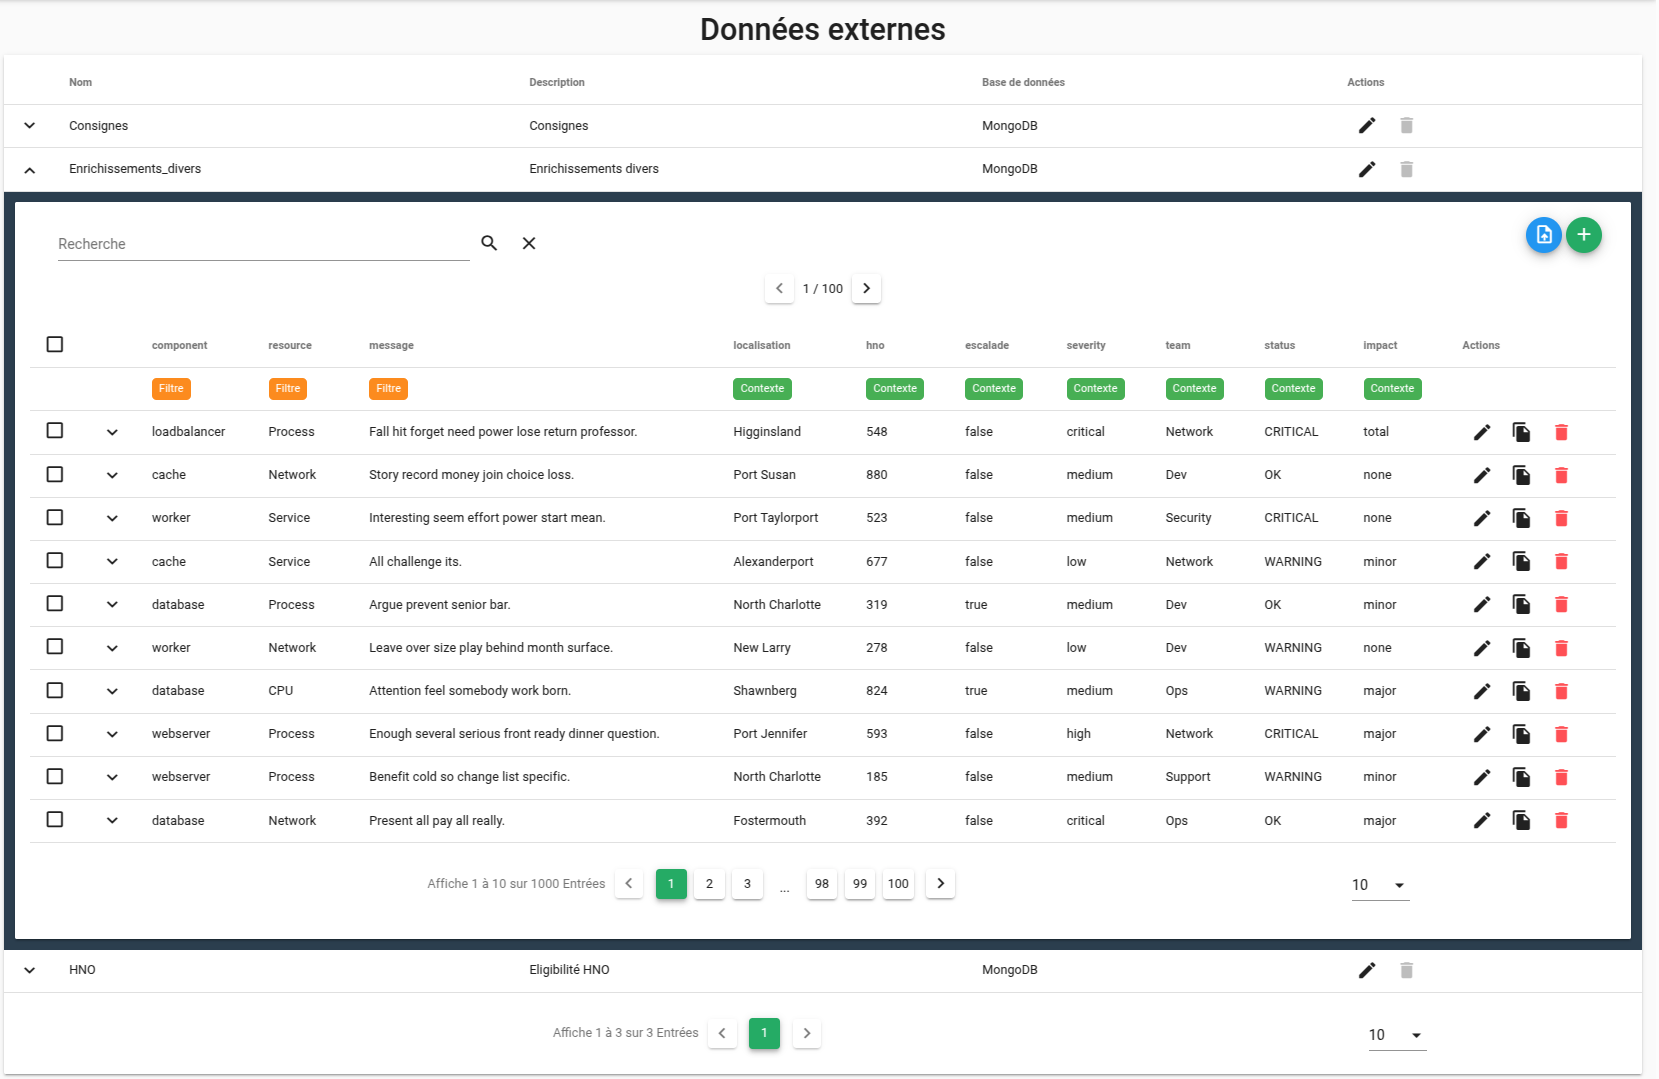
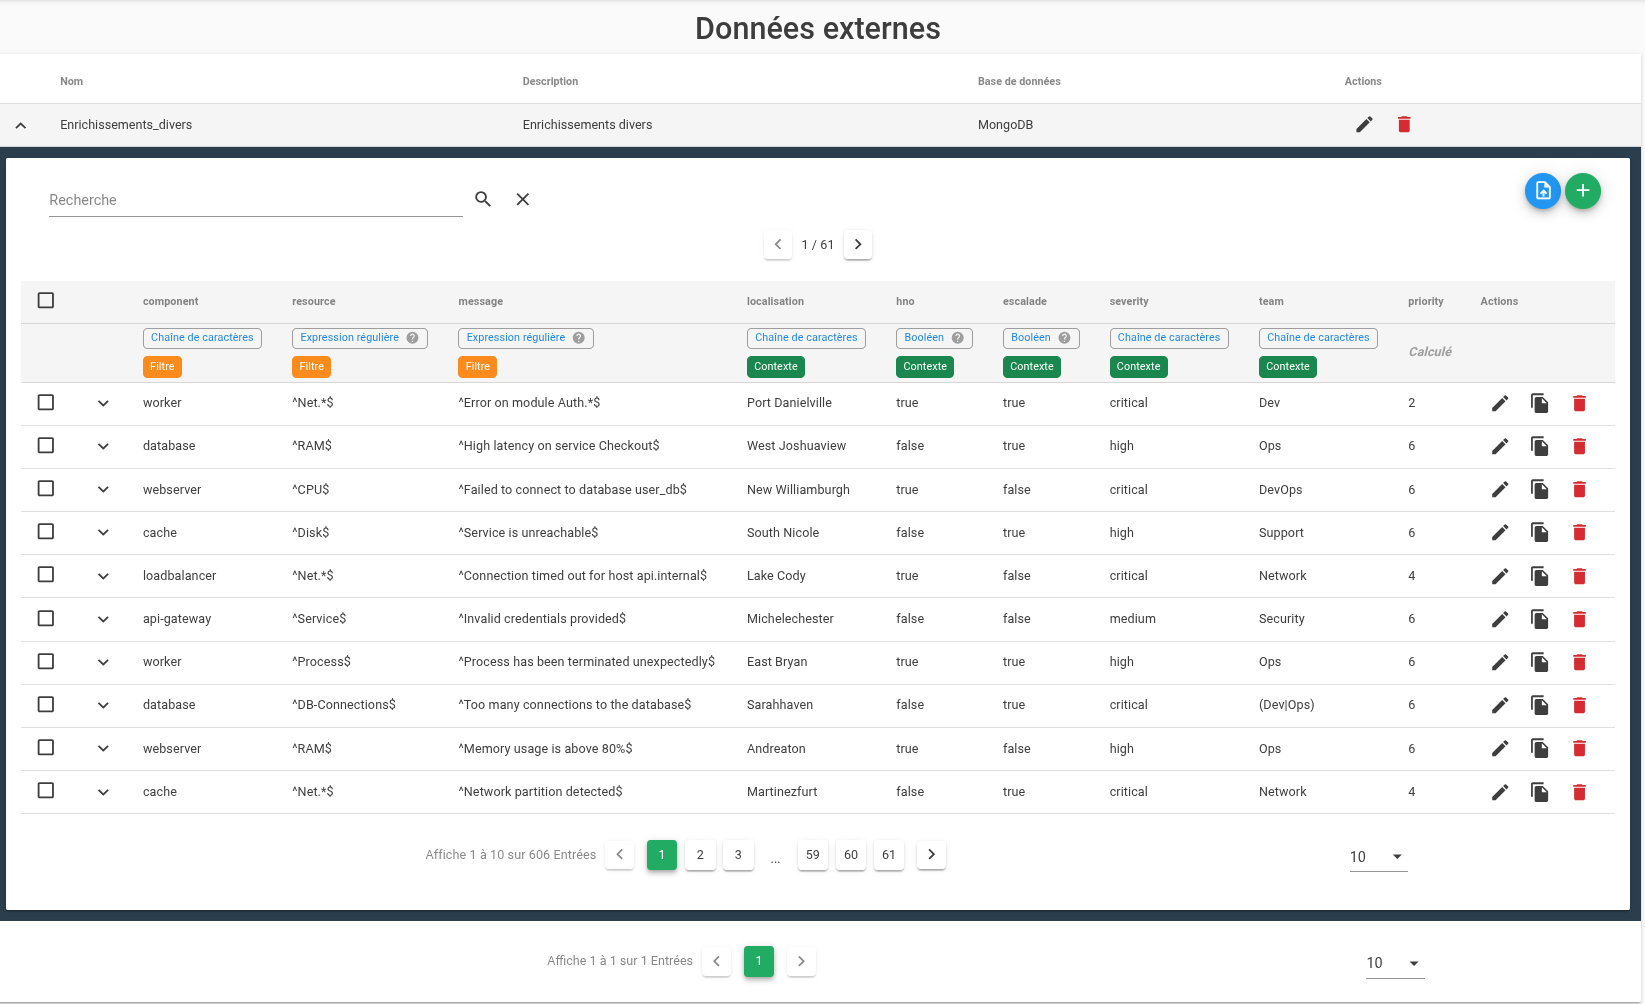
Merge branch 'doc/external_data' into 'develop'
ajout des score + prio

See merge request canopsis/canopsis-pro!5232

(cherry picked from commit 7a77d24668a92311eab0c0415a15c497aa30dfbc)

b9ff5dd3 ajout des score + prio

diff --git a/community/sources/docs/fr/guide-utilisation/menu-exploitation/donnees-externes.md b/community/sources/docs/fr/guide-utilisation/menu-exploitation/donnees-externes.md
@@ -22,6 +22,28 @@ Lorsque vous ajoutez une source, vous pouvez saisir les éléments suivants :
 | **Nom** | Nom de la source de données externes |
 | **Description** | Description de la source de données externes |
 
+!!! info "Information"
+    Les tables PostgreSQL sont ajoutées dans le schéma `externaldata`.  
+    Les commandes suivantes permettent de lister les schémas et vous positionner dans le schéma adéquat :  
+    ```sh
+    canopsis=> \dn
+                   List of schemas
+               Name           |       Owner       
+    --------------------------+-------------------
+     _timescaledb_cache       | postgres
+     _timescaledb_catalog     | postgres
+     _timescaledb_config      | postgres
+     _timescaledb_debug       | postgres
+     _timescaledb_functions   | postgres
+     _timescaledb_internal    | postgres
+     externaldata             | cpspostgres
+     public                   | pg_database_owner
+     timescaledb_experimental | postgres
+     timescaledb_information  | postgres
+    (10 rows)
+    
+    canopsis=> set schema 'externaldata';
+    ```
 
 ### Ajouter une source de données externes depuis le fichier de configuration `toml`
 
@@ -45,6 +67,100 @@ Lorsque le fichier CSV a été sélectionné, vous aurez accès à une pré visu
 
 ![données externes import](./img/donnees_externes_import.png)
 
+Au moment de l'import, l'interface vous propose de "typer" les colonnes du fichier csv.  
+Les types pris en charge sont les suivants :
+
+| Type                  | Description |
+| --------------------- | ----------- |
+| Chaîne de caractères  | Valeur texte libre stockée telle quelle. A utiliser pour des champs "simples" (ex. component, team). Si vous avez besoin de motifs, utilisez plutôt Expression régulière |
+| Booléen               | Valeur logique true / false (insensible à la casse), prend aussi en charge : yes/no, y/n, oui/non, 1/0. Souvent utilisée pour hno, escalade |
+| Nombre                | Valeur numérique (entier ou décimal). Le séparateur de milliers peut être configuré (ex. 1500, 1 500, 12.34) |
+| Tableau               | Permet de stocker plusieurs valeurs dans un même champ. Deux modes sont disponibles lors de l'import : <br>1. JSON ([v1, v2, v3]): la liste est parsée telle quelle<br>2. Analyse par séparateur : les valeurs sont extraites d'une chaîne délimitée (v1,v2,v3, v1;v2;v3, etc.) selon le séparateur choisi.<br>Exemple : "Dev,Ops,QA" devient ["Dev", "Ops", "QA"]"
+| Date/heure            | Représente une date et une heure normalisées. Les valeurs doivent respecter l'un des formats suivants :<br><ul><li>1990-12-31T00:00:00.000Z</li><li>1990-12-31T00:00:00:00:00</li><li>1990-12-31T00:00:00Z</li><li>1990-12-31T00:00:00+00:00</li></ul> |
+| Horodatage            | Timestamp (généralement epoch en secondes) |
+| Expression régulière  | Expression régulière normalisée. Une colonne calculée "priority" est ajoutée automatiquement si au moins une colonne est de type "Expression régulière" |
+
+### Expressions régulières et calcul automatique de la priorité
+
+!!! info "Principe général"
+    Lorsqu'une ou plusieurs colonnes sont typées Expression régulière (regexp), Canopsis :  
+    1. Interprète **chaque valeur comme une expression régulière**, qu'elle contienne ou non des symboles spéciaux.  
+    2. **Normalise** automatiquement les motifs (^ ajouté au début, $ à la fin, sauf pour .*).  
+    3. **Évalue leur "spécificité"** pour calculer une **priorité automatique** (priority) par ligne.  
+    4. Cette priorité peut ensuite être utilisée dans les [règles d'enrichissement](../filtres-evenements/#source-externe) (sort_by: priority, sort: desc) pour faire ressortir **l'enregistrement le plus précis**.
+
+
+#### Règle de calcul de la priorité
+
+Chaque valeur de colonne regexp reçoit un score selon son niveau de précision :
+
+| Type de motif                               | Exemple            | Score |
+| ------------------------------------------- | ------------------ | :---: |
+| Vide, .* ou .+                              | .*                 |   0   |
+| Motif "général" (contient * au milieu)      | .*SUBSTR.*         |   1   |
+| Un seul ancrage (^ ou $)                    | ^SUBSTR ou SUBSTR$ |   2   |
+| Motif exact (commence par ^ et finit par $) | ^SUBSTR$           |   3   |
+
+!!! tip "Conclusion"
+    La priorité d’une ligne correspond à la somme des scores de toutes les colonnes regexp.
+
+
+#### Normalisation automatique des motifs
+
+Canopsis applique une normalisation avant l'évaluation :
+
+| Entrée originale | Normalisation appliquée | Interprétation                |
+| ---------------- | ----------------------- | ----------------------------- |
+| SUBSTR           | ^SUBSTR$                | correspondance exacte         |
+| SUBSTR$          | SUBSTR$                 | ancré en fin                  |
+| ^SUBSTR          | ^SUBSTR                 | ancré en début                |
+| .*SUBSTR         | ^.*SUBSTR$              | motif général                 |
+| .*SUBSTR.*       | ^.*SUBSTR.*$            | motif général (le plus large) |
+| .*               | .*                      | motif passe-partout (score 0) |
+
+Ainsi, tout texte est traité comme une expression régulière, même s’il n’en contient pas.
+
+**Gestion des caractères spéciaux**
+
+Certains caractères ont un sens particulier en regex : [ ] ( ) { } . * + ? ^ $ \ |
+
+* Si vous souhaitez les utiliser littéralement, échappez-les avec un antislash.  
+  Exemple :
+  
+    * Valeur littérale souhaitée : `[ABC]`
+    * A saisir dans le CSV :  `\[ABC\]`
+
+* Si la valeur contient une erreur de syntaxe (regex invalide, parenthèse non fermée, \ manquant...), elle est traitée comme texte exact, sans avertissement dans les logs.
+
+#### Responsabilité du traitement
+
+| Étape                                       | Responsable  | Détails                                                              |
+| ------------------------------------------- | ------------ | -------------------------------------------------------------------- |
+| Ajout automatique de ^ et $                 | Canopsis API | Fait automatiquement côté serveur.                                   |
+| Calcul du score de priorité                 | Canopsis API | Automatique lors de la prévisualisation                              |
+| Échappement des caractères spéciaux ([ABC]) | Utilisateur  | Le fichier CSV doit déjà contenir les antislashs nécessaires.        |
+
+#### Exemple concret
+
+A partir de ce fichier CSV :
+
+```csv
+component,resource,message,localisation,hno,escalade,severity,team
+database,DB-Connections,Too many connections to the database,Sarahhaven,False,True,critical,(Dev|Ops)
+webserver,CPU,Failed to connect to database user_db,New Williamburgh,True,False,critical,DevOps
+cache,Disk,Service is unreachable,South Nicole,False,True,high,Support
+loadbalancer,Net.*,Connection timed out for host api.internal,Lake Cody,True,False,critical,Network
+```
+
+Le traitement effectué par Canopsis (valeurs regexp normalisées et priorités calculées) est le suivant :
+
+| component    | resource (normalisé) | message (normalisé)                          | priority | severity | team      |
+| ------------ | -------------------- | -------------------------------------------- | :------: | :------- | :-------- |
+| database     | ^DB-Connections$     | ^Too many connections to the database$       |     6    | critical | (Dev|Ops) |
+| webserver    | ^CPU$                | ^Failed to connect to database user_db$      |     6    | critical | DevOps    |
+| cache        | ^Disk$               | ^Service is unreachable$                     |     6    | high     | Support   |
+| loadbalancer | ^Net.*$              | ^Connection timed out for host api.internal$ |     4    | critical | Network   |
+
 ### Gérer les enregistrements
 
 Dès lors qu'un import de données a été réalisé, vous pouvez effectuer les opérations suivantes sur chaque enregistrement :  
@@ -53,7 +169,7 @@ Dès lors qu'un import de données a été réalisé, vous pouvez effectuer les 
 * Supprimer
 * Dupliquer
 
-Vous pouvez également importer de nouveaux enregistrements et/ou insérer un enregistrement "manuellement" depuis l'interface graphique.
+**Vous pouvez également importer de nouveaux enregistrements et/ou insérer un enregistrement "manuellement" depuis l'interface graphique.**
 
 Pour rappel, ces tables ont vocation a être utilisées dans des règles d'enrichissement à 2 niveaux :
 
@@ -63,7 +179,7 @@ Pour rappel, ces tables ont vocation a être utilisées dans des règles d'enric
 2. Comme une information enrichie : 
 ![données externes action](./img/donnees_externes_eventfilter_action.png)
 
-Pour faciliter la visualisation ainsi que la destination des données, l'interface propose de typer les colonnes : **Filtre** ou **Contexte** selon la situation.
+Pour faciliter la visualisation ainsi que la destination des données, l'interface propose de définir les colonnes comme étant destinées au **Filtre** ou **Contexte** selon la situation.
 
 ![données externes type](./img/donnees_externes_eventfilter_type.png)
 
